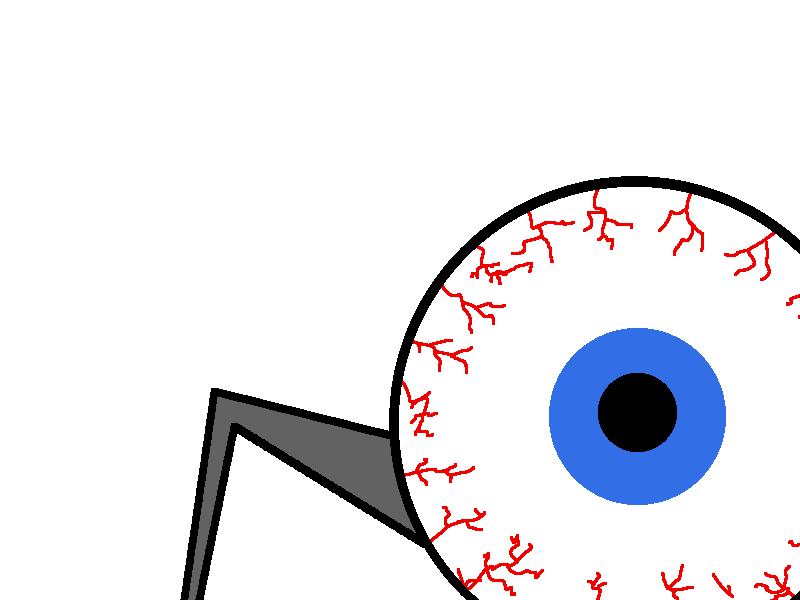
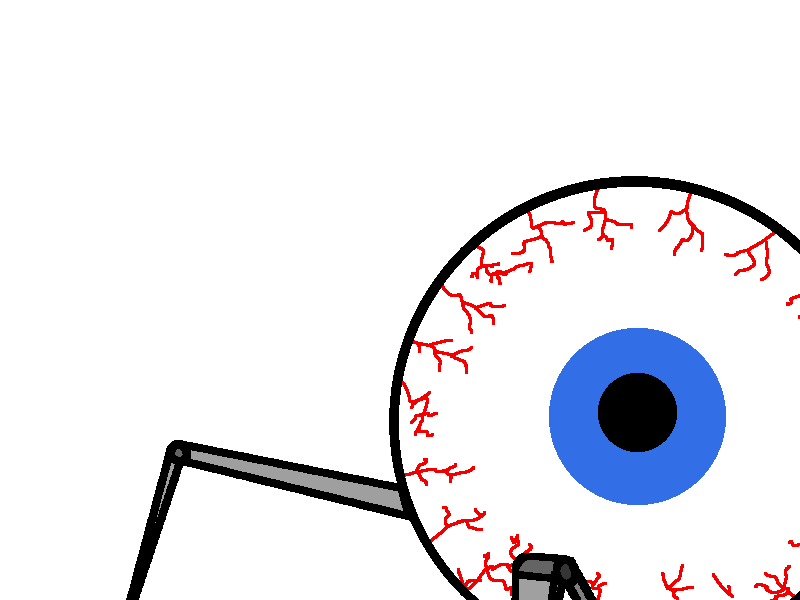
added sock funct

Changed region(s): [[0.1562, 0.63, 0.5312, 1.0], [0.625, 0.9, 0.75, 1.0]]

diff --git a/README.md b/README.md
@@ -1,1 +1,1 @@
-# 3 Nights at Meia's - Definitive Edition
+# One Night at Meia's - Definitive Edition
